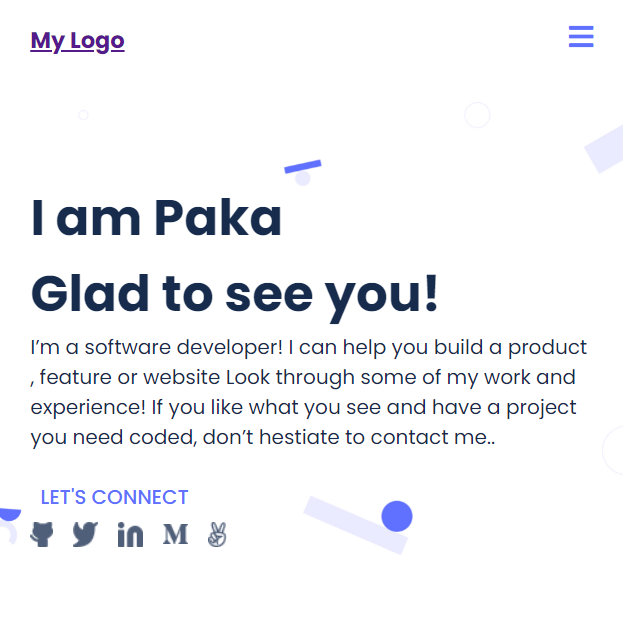
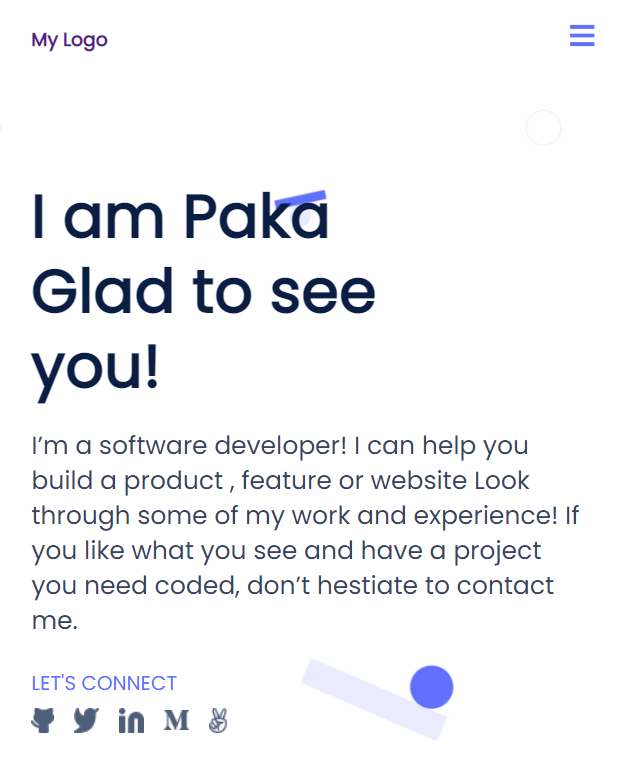
Add Modify html and css files

diff --git a/style.css b/style.css
@@ -1,4 +1,4 @@
-@import url('https://fonts.googleapis.com/css2?family=Poppins:wght@300;400;500;600;700;800;900&display=swap');
+@import url('https://fonts.googleapis.com/css2?family=Poppins&display=swap');
 
 * {
   padding: 0;
@@ -17,7 +17,7 @@ body {
 }
 
 .logo {
-  font-family: Poppins;
+  font-family: 'Poppins', sans-serif;
   font-style: normal;
   font-weight: bold;
   font-size: 15px;
@@ -93,21 +93,18 @@ body {
 }
 
 .welcome {
-  font-family: Poppins;
-  font-style: Bold;
+  font-family: 'Poppins', sans-serif;
+  font-style: bold;
   font-size: 48px;
   line-height: 60px;
-  line-height: 83%;
   text-align: left;
-  vertical-align: center;
   letter-spacing: 0.37px;
   color: #091e42;
-  fill: solid #091E42;
   padding-bottom: 1.2rem;
 }
 
 .introduction {
-  font-family: Poppins;
+  font-family: 'Poppins', sans-serif;
   font-style: normal;
   font-weight: normal;
   max-width: 600px;
@@ -126,7 +123,7 @@ body {
   font-size: 16px;
   line-height: 24px;
   color: #6070ff;
-  padding: 0.5rem;
+  padding: 0.5rem 0;
 }
 
 ul {

diff --git a/index.html b/index.html
@@ -29,9 +29,8 @@
   <main id="main-container">
     <section class="headline">
       <div class="headline-main-container">
-        <h1 class="welcome">I am Paka <br> Glad to see you!</h1>
-        <p class="introduction">I’m a software developer! I can help you build a product , feature or website Look through some of my work and experience! If you like what you see and have a project you need coded, don’t hestiate to contact me..
-        </p>
+        <h1 class="welcome">I am Paka <br> Glad to see <br> you!</h1>
+        <p class="introduction">I’m a software developer! I can help you build a product , feature or website Look through some of my work and experience! If you like what you see and have a project you need coded, don’t hestiate to contact me.</p>
       <div class="link-up">
         <h2>LET'S CONNECT</h2>
         <div class="social-list">
